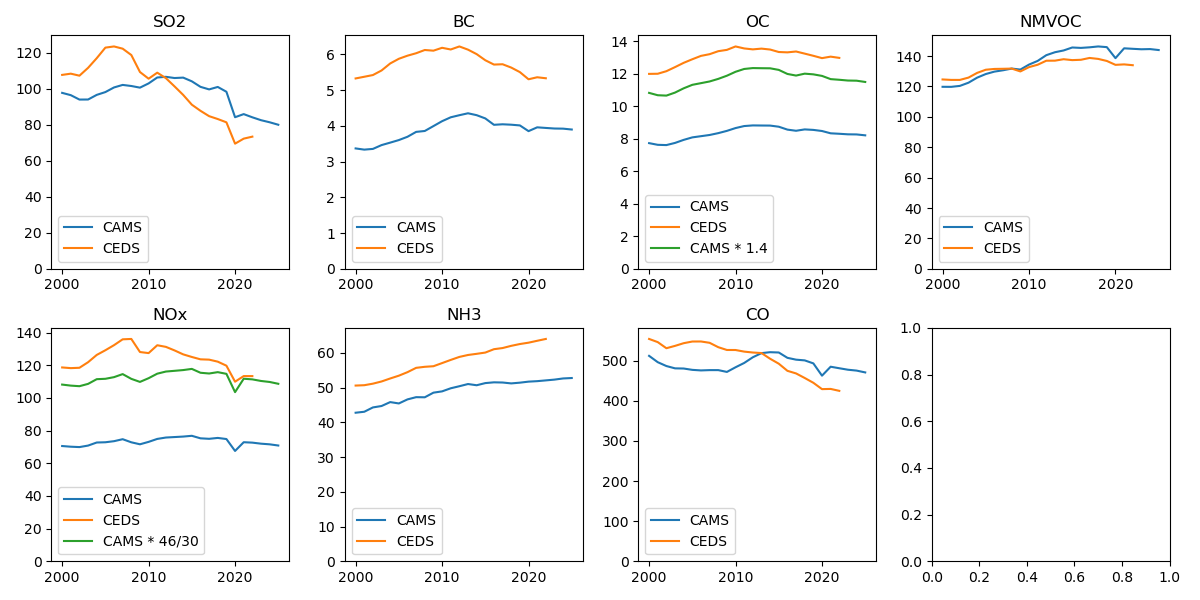
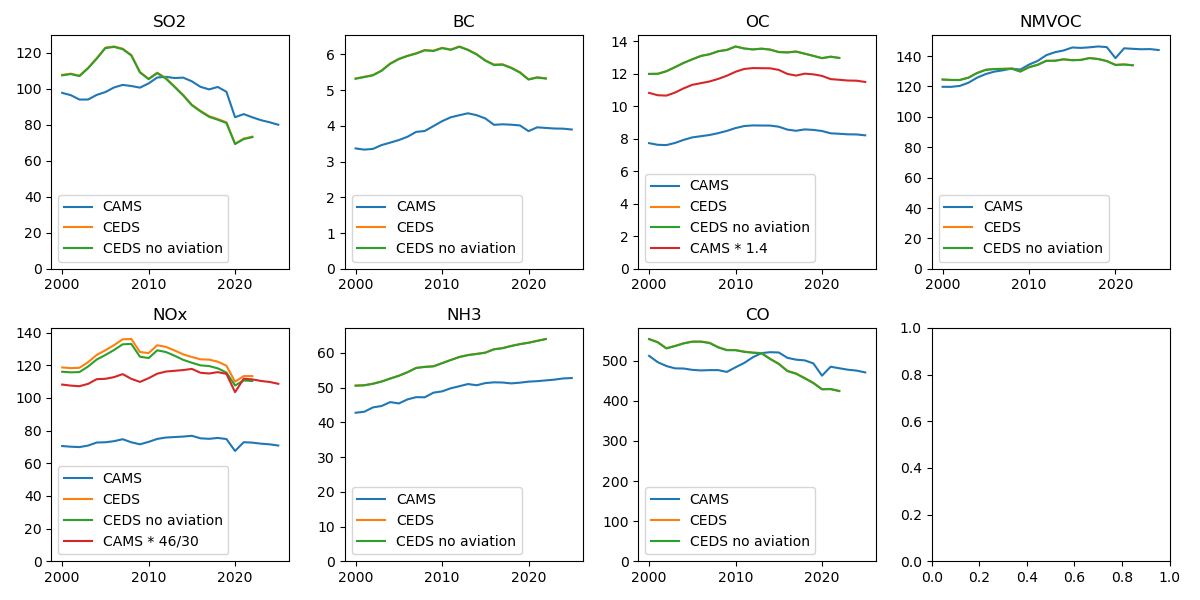
notes and plots, no numbers change

diff --git a/notebooks/08_slcf-emissions.py b/notebooks/08_slcf-emissions.py
@@ -17,7 +17,7 @@
 #
 # Fossil and industrial from CEDS (1750-2022), from CEDS v2024.07.08, available at https://doi.org/10.5281/zenodo.12803197
 #
-# Extend with CAMS for 2023 and 2024 based on CAMS ratio to 2022 emissions
+# Extend with CAMS for 2023 and 2024 based on CAMS ratio to 2022 emissions. For the fairest comparison, exclude aviation from CEDS when doing the scaling. **May also be some other sectoral mismatches we're not aware of - should probably keep in touch with Lara on this**
 #
 # Biomass burning from GFED (1997-2023), extended backwards to 1750 using BB4CMIP **TODO: replace with the CMIP7 pipeline**, which is part of the CMIP6 database and taken here from RCMIP. We need to convert the unit of NOx emissions from biomass to NO2 from the RCMIP data, as GFED reports in units of NO.
 
@@ -35,15 +35,23 @@ species = ['BC', 'OC', 'SO2', 'NOx', 'CO', 'NMVOC', 'NH3']
 # %%
 slcf_df = pd.DataFrame(columns = species, index=np.arange(1750, 2025, dtype=int))
 ceds_df = pd.DataFrame(columns = species, index=np.arange(1750, 2023, dtype=int))
+ceds_no_aviation_df = pd.DataFrame(columns = species, index=np.arange(1750, 2023, dtype=int))
 
 # %%
 for specie in species:
-    ceds_df.loc[:, specie] = 0.001 * pd.read_csv(
+    df_ceds_in = pd.read_csv(
         f'../data/slcf_emissions/ceds/v20240708/{specie}_CEDS_global_emissions_by_sector_v2024_07_08.csv'
-    ).sum()['X1750':].values
+    )
+    total = df_ceds_in.sum()['X1750':].values
+    aviation = df_ceds_in[df_ceds_in['sector'].isin(('1A3ai_International-aviation', '1A3aii_Domestic-aviation'))].sum()['X1750':].values
+    ceds_df.loc[:, specie] = 0.001 * total
+    ceds_no_aviation_df.loc[:, specie] = 0.001 * (total - aviation)
 
 # %%
 ceds_df
+
+# %%
+ceds_no_aviation_df
 
 # %%
 gfed41s_df = pd.read_csv('../output/gfed4.1s_1997-2024.csv', index_col=0)

diff --git a/notebooks/07_cams-slcfs.py b/notebooks/07_cams-slcfs.py
@@ -29,6 +29,8 @@
 # - select CAMS-GLOB_ANT v6.2
 # - select species
 # - select Sum Sectors and Agricultural Waste Burning
+#
+# The CAMS-GLOB-ANT doesn't include aviation emissions, this is a separate dataset CAMS-GLOB-AIR. However, it doesn't seem that reliable, since there is no dip in emissions for COVID. The dataset also ends in 2022. Therefore the fairest direct comparison is to subtract aviation emissions out of CAMS.
 
 # %%
 import numpy as np
@@ -58,13 +60,22 @@ cams_df
 
 # %%
 ceds_df = pd.DataFrame(columns = species, index=np.arange(2000, 2023, dtype=int))
+ceds_no_aviation_df = pd.DataFrame(columns = species, index=np.arange(2000, 2023, dtype=int))
 
 for specie in species:
-    ceds_df.loc[:, specie] = 0.001 * pd.read_csv(
+    df_ceds_in = pd.read_csv(
         f'../data/slcf_emissions/ceds/v20240708/{specie}_CEDS_global_emissions_by_sector_v2024_07_08.csv'
-    ).sum()['X2000':].values
+    )
+    total = df_ceds_in.sum()['X2000':].values
+    aviation = df_ceds_in[df_ceds_in['sector'].isin(('1A3ai_International-aviation', '1A3aii_Domestic-aviation'))].sum()['X2000':].values
+    ceds_df.loc[:, specie] = 0.001 * total
+    ceds_no_aviation_df.loc[:, specie] = 0.001 * (total - aviation)
 
+# %%
 ceds_df
+
+# %%
+ceds_no_aviation_df
 
 # %%
 fig, ax = pl.subplots(2, 4, figsize=(12, 6))
@@ -73,6 +84,7 @@ for ispec, specie in enumerate(species):
     icol = ispec % 4
     ax[irow,icol].plot(np.arange(2000, 2026), cams_df.loc[:, specie], label='CAMS')
     ax[irow,icol].plot(np.arange(2000, 2023), ceds_df.loc[:, specie], label='CEDS')
+    ax[irow,icol].plot(np.arange(2000, 2023), ceds_no_aviation_df.loc[:, specie], label='CEDS no aviation')
     if specie=='OC':
         ax[irow,icol].plot(np.arange(2000, 2026), 1.4 * cams_df.loc[:, specie], label='CAMS * 1.4')
     elif specie=='NOx':
